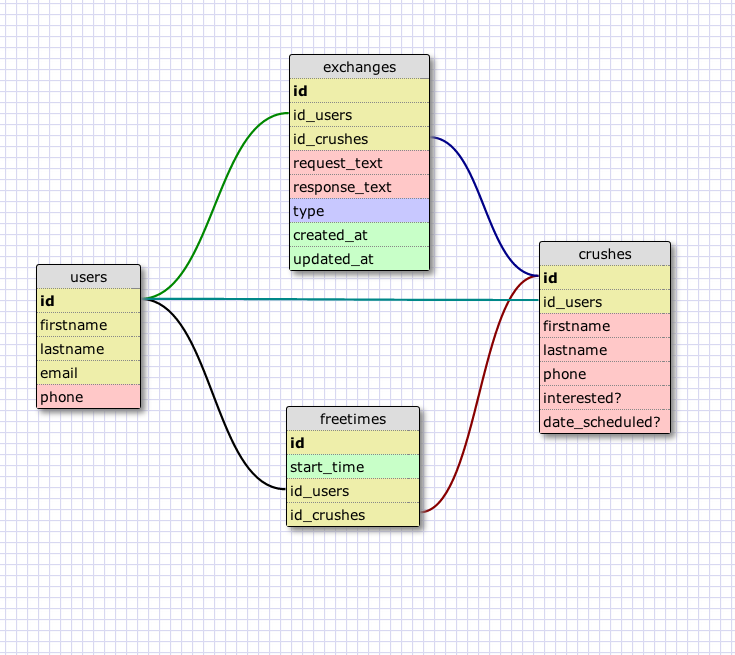
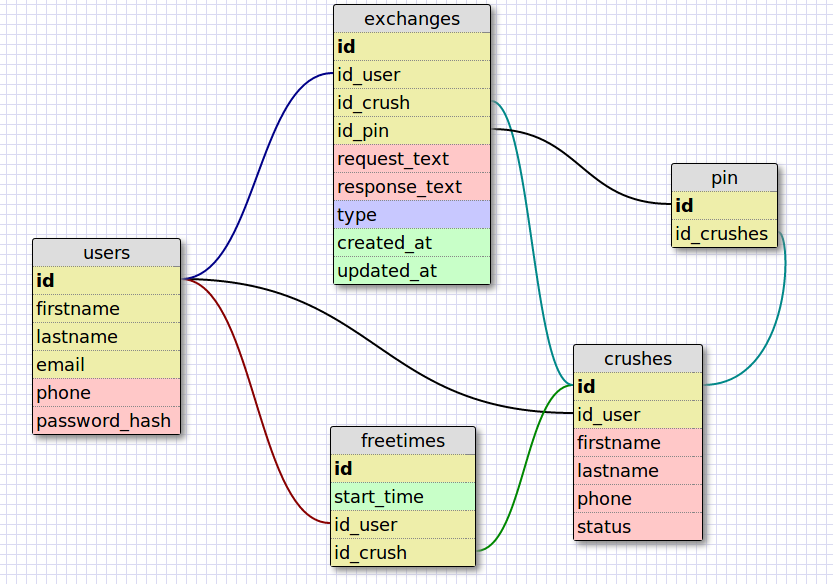
WIP adding tests on crush spec and reverted message model to exchange, changed schema

diff --git a/spec/crush_spec.rb b/spec/crush_spec.rb
@@ -1,0 +1,27 @@
+require 'spec_helper'
+
+describe Crush do
+
+  let(:crush) { Crush.new(first_name: "Maria",
+                          last_name: "Pacana",
+                          phone: "+16502008405")}
+
+  describe "#initialize" do  
+    it { should have_many(:exchanges) }
+    it { should belong_to(:user) }
+    xit { should have_many(:pins) }
+
+    context "with invalid phone number" do
+      xit "throws an argument error" do
+        expect Crush.new(first_name: "Maria",
+                         last_name: "Pacana",
+                         phone: "650-200-9405").to raise_error(InvalidPhoneError)
+      end
+    end
+
+    context "with valid phone number" do
+
+    end
+  end
+  #valid and invalid phone numbers?
+end

diff --git a/app/controllers/index.rb b/app/controllers/index.rb
@@ -44,7 +44,6 @@ post '/crushes' do
     crush.pry
     send_sms(ENV['TW_PHONE'], crush["phone"], hello)
     @new_crush = currentuser.crushes.create(crush)
-    # currentuser.messages.create(body: hello, from_user: true, crush: @new_crush)
   end
 
   currentuser.crushes
@@ -59,9 +58,9 @@ post '/receive' do
 
   if @crush = Crush.find_by_phone(@crush_phone)
     if (@message == "Yes")
-      @crush.update_attributes(interested: true)
+      @crush.update_attributes(status: "interested")
     else
-      @crush.update_attributes(interested: false)
+      @crush.update_attributes(status: "not interested")
     end
   end
 

diff --git a/config/environment.rb b/config/environment.rb
@@ -43,6 +43,8 @@ require 'pry'
 
 require "base64"
 
+require 'shoulda-matchers'
+require 'rspec'
 
 # Some helper constants for path-centric logic
 APP_ROOT = Pathname.new(File.expand_path('../../', __FILE__))
@@ -58,7 +60,6 @@ require APP_ROOT.join('config', 'database')
 
 unless (ENV['TW_SID'] || ENV['TW_TOKEN'])
 	twilio_config = YAML.load_file(APP_ROOT.join('config', 'twilio.yaml'))
-	p twilio_config
 	twilio_config.each do |name, setting|
 	  ENV[name] = setting 
 	  puts "#{name} = #{ENV[name]}"

diff --git a/spec/spec_helper.rb b/spec/spec_helper.rb
@@ -5,6 +5,6 @@ require 'rubygems'
 # If RACK_ENV isn't set, set it to 'test'.  Sinatra defaults to development,
 # so we have to override that unless we want to set RACK_ENV=test from the
 # command line when we run rake spec.  That's tedious, so do it here.
-ENV['RACK_ENV'] ||= 'test'
+# ENV['RACK_ENV'] ||= 'test'
 
 require File.expand_path("../../config/environment", __FILE__)

diff --git a/db/migrate/20130621044634_create_crushes.rb b/db/migrate/20130621044634_create_crushes.rb
@@ -4,8 +4,7 @@ class CreateCrushes < ActiveRecord::Migration
       t.string :first_name
       t.string :last_name
       t.string :phone
-      t.boolean :interested
-      t.boolean :date_scheduled
+      t.string :status
       t.references :user
     end
   end

diff --git a/app/models/crush.rb b/app/models/crush.rb
@@ -1,5 +1,5 @@
 class Crush < ActiveRecord::Base
-  has_many :messages
+  has_many :exchanges
   belongs_to :user
 
 end

diff --git a/app/models/exchange.rb b/app/models/exchange.rb
@@ -1,0 +1,5 @@
+class Exchange < ActiveRecord::Base
+  belongs_to :user
+  belongs_to :crush
+
+end
